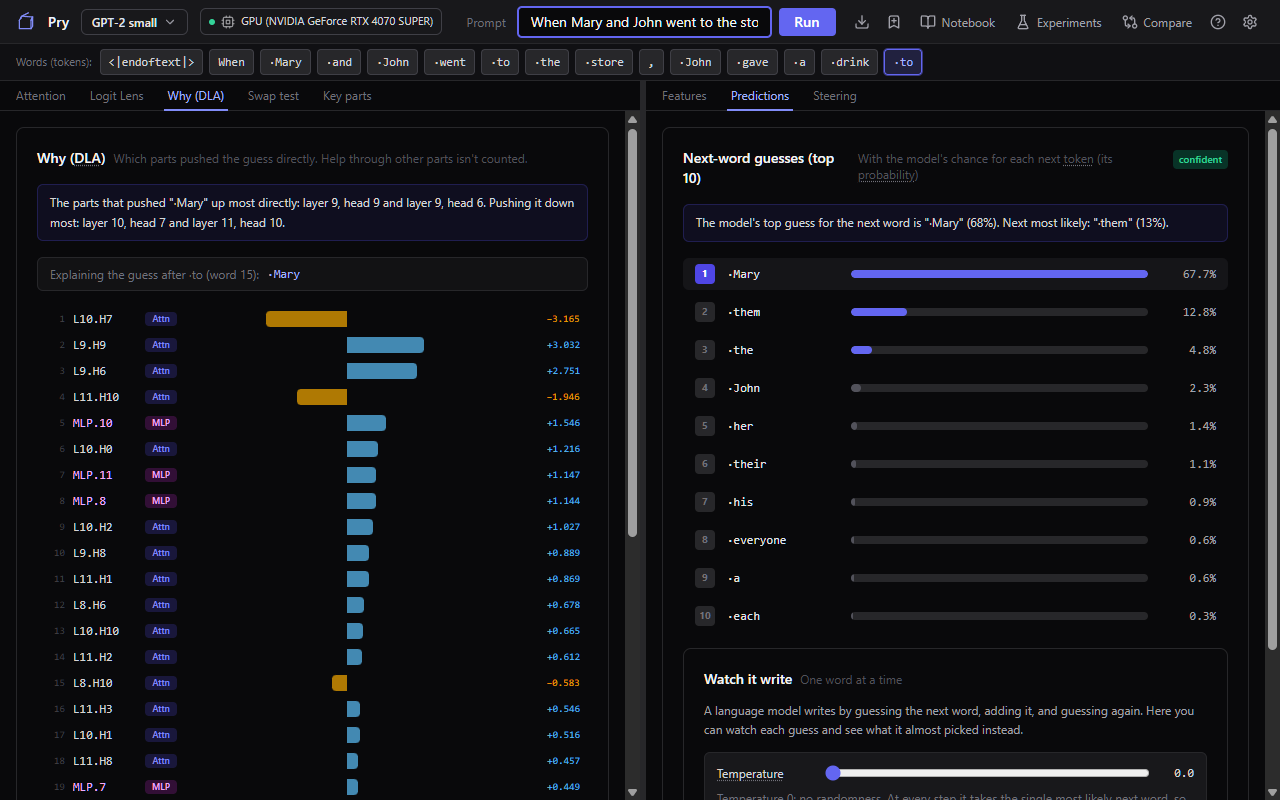
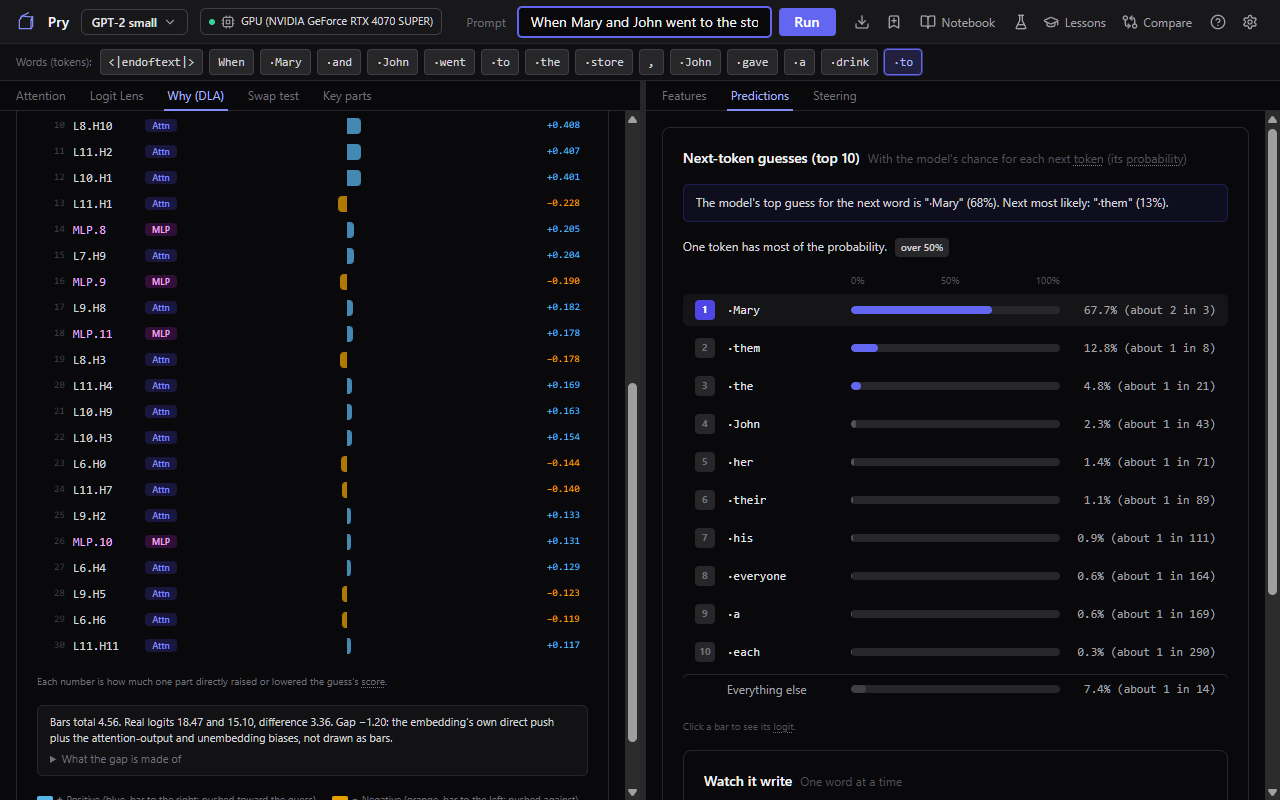
docs(readme): 0.4.0 refresh: Lessons, lesson format preview, measurement changes, notebook v2; new screenshots
Lessons (docked sidebar, 19 lessons in four stages + the 12-step quick tour,
Back/Next re-drive the app, Lessons closed = the 0.3.8 layout), the public
lesson format (format 1, preview label, AUTHORING.md link, install grants),
the measurement changes (absolute Predictions bars + Everything else, DLA
total/real/gap with a contrast token, Swap test three logits + share,
steering control + coherence numbers, embedding reader), notebook v2 with
the notebook.v1.json backup, and privacy for lessons (app data folder,
lesson-grants.json, network/external only when a user lesson declares it).

Screenshots re-shot from the debug build at 1280x800 (scripts/dev/lesson-walk.mjs
--readme): attention, logit-lens, why-dla, key-parts, features, compare;
new lessons, lesson-predict, lesson-check, quick-tour, swap-test; tour.png and
experiment.png removed (the 38-step tour and the guides are gone).
Voice: brad-voice lint, guide register, 0 hard / 0 review.

diff --git a/README.md b/README.md
@@ -2,56 +2,89 @@
 
 Pry lets you look inside a small language model while it reads your words and guesses the next one. You don't need to write code or know machine learning.
 
-It runs the model on your own computer and gives you tools for seeing what's going on inside. Every chart opens with a sentence or two saying what it shows, and a guided tour walks you through the whole app. If you've wondered how these models work but don't want to set up a Python notebook to find out, it's for you.
+It runs the model on your own computer and gives you tools for seeing what's going on inside. Every chart opens with a sentence or two saying what it shows, and every number comes with the measurements it's worked out from. Nineteen short lessons teach you how to read all of it, one section at a time, inside the app. If you've wondered how these models work but don't want to set up a Python notebook to find out, it's for you.
 
 Pry's an alpha. It works, but you'll hit rough edges.
 
 <img src="docs/screenshots/attention.png" width="800" alt="The Attention panel with lines from each word to the words it looks at, next to the Predictions list">
 
-*Attention and Predictions for "The cat sat on the". On the left, lines run from " the" to the words one head looks at. On the right are the model's top guesses, with " floor" first at 9%.*
+*Attention and Predictions for "The cat sat on the". On the left, lines run from " the" to the words one head looks at. On the right are the model's top guesses, with " floor" first at 8.7%. Each bar is as wide as its real probability, so that bar fills 8.7% of its track, and "Everything else" (58.7% here) is whatever the top ten leave over.*
+
+## Lessons
+
+Open **Lessons** from the header and a sidebar docks beside the app, not on top of it. A lesson runs Pry for you one section at a time: it types the prompt, opens the panel and runs the analysis, then tells you what you're looking at. It'll ask for your guess before it shows you a result, and every result comes with what it can't tell you.
+
+There are 19 lessons in four stages:
+
+1. What a model is and isn't: tokens, embeddings, the residual stream, logits and probabilities.
+2. Looking inside: attention heads, the logit lens, direct logit attribution (DLA) and SAE features.
+3. Testing what's a cause: knockouts, activation patching (Pry's Swap test), steering, and two case studies.
+4. Why GPT-2 doesn't act like ChatGPT.
+
+Back and Next put the app back the way that section had it, prompt and panels included, so you can step back to an earlier result and it's there again. Press **Lessons** again to close it and you've got the plain analysis app, laid out the same as 0.3.8. Settings picks which side the sidebar docks on. At 1024 pixels wide the app gets tabs so both fit.
+
+New to Pry? The 12-step quick tour points at each part of the app in about five minutes. It's under the **?** button, and it replaces the old 38-step tour and the experiment guides. The experiments live on as lessons.
+
+<img src="docs/screenshots/lessons.png" width="800" alt="The Lessons sidebar docked on the right, partway through a lesson, with the app's panels on the left">
+
+*Section 2 of "Is there a database in there?" The lesson ran "Michael Jordan played the sport of" and opened Predictions, and its text reads the same numbers the panel shows: " basketball" at 0.422, and 37% left for everything outside the top ten.*
+
+<img src="docs/screenshots/lesson-predict.png" width="800" alt="A lesson asking for a guess before it shows the result">
+
+*The first section of the same lesson asks where GPT-2's next word comes from before it runs anything. You can pick an answer, write your own, or skip it.*
+
+<img src="docs/screenshots/lesson-check.png" width="800" alt="A lesson's check result, with the numbers it read from the app">
+
+*"Can we catch a head doing one job?" runs Pry's copying-heads test, names the top three scorers it found (L5H5, L7H10, L6H9) and checks them against the app: "The app shows what the lesson expected."*
+
+<img src="docs/screenshots/quick-tour.png" width="800" alt="A quick tour step with its card pointing at part of the app">
+
+*Step 4 of the quick tour. The card sits beside Predictions, the part it's talking about, on a real run of the Mary and John sentence.*
+
+### Write your own
+
+Lessons are Markdown files in a public format with its own version number, `format: 1`. For 0.4.x, writing your own is a **preview**... but format 1's frozen, so a lesson you write now keeps opening, and when format 2 ships Pry'll convert it for you. [`docs/lessons/AUTHORING.md`](docs/lessons/AUTHORING.md) walks you from the template to an installed lesson, and a checker (`lessons-lint.mjs`, shipped with Pry) reads your file before Pry loads it. Turn on author mode in Settings > Lessons and each number in a lesson shows its expected value beside the live one.
+
+When you install someone's lesson with **Add a lesson...**, Pry lists anything it does beyond looking at the app (downloading a model, looking something up online, opening a link) and asks you once. You can take that back in Settings > Lessons.
 
 ## What you can do
 
-- **See what it guesses.** Predictions lists the model's top guesses for the next word and how likely it thinks each one is. Watch it write replays the model writing one word at a time, with a temperature slider.
-- **See where it looks.** Attention draws lines from each word to the words it pays attention to. There's an expert view with the full layer × head grid, and a copying-heads view that finds the heads that copy patterns they've already seen.
-- **Watch it make up its mind.** The Logit Lens shows what the model would guess at each layer, so you can watch the answer form on the way up.
-- **Ask why it guessed that.** Why (DLA) splits the guess into how much each part of the model pushed toward it or away from it. Key parts picks out the parts that matter most and draws the links between them.
-- **See the concepts it used.** Features shows the concepts that lit up for each word, with labels from Neuronpedia. Find a concept searches those labels for something like "the ocean".
-- **Poke it.** Steering turns a concept up or down and reruns. Knockouts switch off a head or a feature. Swap test copies pieces from one prompt into another to find which part carries the answer.
+- **See what it guesses.** Predictions lists the model's top guesses for the next token with each one's probability, and the bars are drawn to scale. Click a bar to see its logit, the raw score the probability comes from. Watch it write replays the model writing one token at a time, with a temperature slider.
+- **See where it looks.** Attention draws lines from each token to the tokens one attention head looks at. There's an expert view with the full layer × head grid, and a copying-heads view that finds the heads that copy patterns they've already seen.
+- **Watch the guess form.** The Logit Lens shows what the model would guess at each layer, so you can watch the answer form on the way up.
+- **Ask why it guessed that.** Why (DLA) splits the guess into how much each head and MLP pushed toward it or away from it. Pick the answer token, and a second token to compare it against if you want. A line under the bars gives the bars' total, the real logit and the gap between them, so you can see how much the bars account for. Key parts picks out the parts that matter most and draws the links between them.
+- **See the concepts it used.** Features shows the concepts that lit up for each token, from a sparse autoencoder (SAE), with labels from Neuronpedia. Find a concept searches those labels for something like "the ocean".
+- **Poke it.** Swap test (activation patching) copies pieces from one prompt's run into another's to find which part carries the answer. Above the grid you get the target token's logit in all three runs (Original, Changed, and after the swap), and each square's share is worked out from them. Knockouts switch off a head or a feature. Steering turns a concept up or down and reruns, and shows how natural each text reads to the unsteered model (both numbers), next to a control run that steers a different feature of about the same size.
 - **Compare two prompts.** Compare runs "The doctor said that" and "The nurse said that" side by side and shows what changed.
-- **Try an experiment.** Eight short guided experiments, from "Who gets the drink?" to "Turn up a concept", set everything up, say what to look for, and link the research they come from.
-- **Keep a lab notebook.** Save a run with your own note, come back to it later, and export one entry or the whole notebook as a single web page that works offline.
-- **Learn as you go.** A nine-chapter tour points at each part of the app and runs the examples for you. First-time tips and glossary hovers explain words like *attention head* and *logit* in a line.
+- **Read an embedding.** A view in the lessons puts two token positions side by side and counts how many of their 768 numbers match, with the token embedding and the positional embedding as separate rows.
+- **Keep a lab notebook.** Save a run with your own note, come back to it later, and export one entry or the whole notebook as a single web page that works offline. Your lesson answers go in it too.
+- **Learn as you go.** First-time tips and glossary hovers explain words like *attention head* and *logit* in a line.
 
 ## Screenshots
 
 <img src="docs/screenshots/logit-lens.png" width="800" alt="The Logit Lens grid for Michael Jordan played the sport of">
 
-*The Logit Lens for "Michael Jordan played the sport of". Each square is one layer's best guess for one word. " basketball" takes over at layer 8 and ends at 42%.*
+*The Logit Lens for "Michael Jordan played the sport of". Each square shows one layer's best guess for one token, and " basketball" takes over at layer 8, peaks at 93% at layer 9 and ends at 42%.*
 
-<img src="docs/screenshots/why-dla.png" width="800" alt="Why (DLA) bars for the Mary and John sentence">
+<img src="docs/screenshots/why-dla.png" width="800" alt="Why (DLA) bars for the Mary and John sentence, with the total, real logit and gap line">
 
-*Why (DLA) on "When Mary and John went to the store, John gave a drink to". Each bar is one head or MLP pushing " Mary" up (blue) or down (orange).*
+*Why (DLA) on "When Mary and John went to the store, John gave a drink to", with " Mary" as the answer and " John" as the contrast. Each bar is one head or MLP pushing " Mary" over " John" (blue) or the other way (orange). The line at the bottom adds it up: the bars total 4.56, the real logits are 18.47 and 15.10 (a difference of 3.36), and the gap of -1.20 is the part no bar shows.*
+
+<img src="docs/screenshots/swap-test.png" width="800" alt="The Swap test grid with the three logits above it">
+
+*Swap test on the same sentence, with "Mary gave a drink to" as the changed prompt. For layer 8, head 10, the line above the grid gives " Mary"'s logit in all three runs (18.47 original, 14.97 changed, 16.25 after the swap) and works the share out from them: (16.25 - 14.97) ÷ (18.47 - 14.97) = 37%.*
 
 <img src="docs/screenshots/key-parts.png" width="800" alt="The Key parts graph for the Mary and John sentence">
 
-*Key parts on the same sentence. Each row's a layer, highest at the top, and the lines show how one part's output pushes the guess through a later head.*
+*Key parts on the same sentence. Each row's a layer, highest at the top, and the lines show how one part's output pushes the guess through a later head. The biggest part here, layer 10 head 7, pushes against " Mary" (-3.16).*
 
 <img src="docs/screenshots/features.png" width="800" alt="The Features panel for The doctor told the nurse she would">
 
-*Features on " would" in "The doctor told the nurse she would". You see the concepts that lit up, Neuronpedia's label for each, and text where it fires hardest.*
+*Features on " would" in "The doctor told the nurse she would". You see the SAE features that lit up, Neuronpedia's label for each, and text where each one fires hardest. The strongest is #17000, "statements indicating future intentions".*
 
 <img src="docs/screenshots/compare.png" width="800" alt="Compare mode with two prompts side by side">
 
 *Compare "The doctor said that" with "The nurse said that". " she" gains 14 points, " he" loses 12, and the features that show up in only one prompt are listed on the right.*
-
-<img src="docs/screenshots/tour.png" width="800" alt="A guided tour step with its card and arrow">
-
-*Chapter 2 of the tour. The card sits beside the attention grid it's talking about, with an arrow and a "Look at" line.*
-
-<img src="docs/screenshots/experiment.png" width="800" alt="The Who gets the drink? experiment guide">
-
-*The "Who gets the drink?" guide. The goal and both prompts stay at the top, then why it matters, what to look for, and what researchers found.*
 
 <img src="docs/screenshots/loading.png" width="800" alt="The loading screen while GPT-2 small loads">
 
@@ -61,10 +94,12 @@ Pry's an alpha. It works, but you'll hit rough edges.
 
 These tools show real numbers, but each one answers a narrow question. Pry says so in the app too.
 
-- Why (DLA) shows **direct** effects only: what each part adds straight to the final guess. Effects that pass through later layers aren't counted.
+- Why (DLA) shows **direct** effects only: what each part adds straight to the final guess. Effects that pass through later layers aren't counted. The gap line shows what the bars leave out: the embedding's own direct push plus two biases.
 - The lines in Key parts show one kind of link, the **direct value path**. Other ways parts affect each other, like changing where a head looks, aren't drawn.
 - Compare shows what changes **along with** the prompt. It doesn't prove what causes what. Use Swap test or a knockout for that.
-- Feature labels are written automatically by Neuronpedia. They're a good hint, not a fact.
+- A Swap test share only means something when the Original and Changed logits are far apart. When they're close, Pry says so.
+- Steering's "how natural it reads" numbers can't tell good text from a loop: repetitive text scores as very natural. That's why you get the numbers and a control run, not a verdict.
+- Neuronpedia writes the feature labels automatically, so treat them as a good hint, not a fact.
 
 ## Models
 
@@ -74,10 +109,10 @@ These tools show real numbers, but each one answers a narrow question. Pry says 
 | Pythia-70M | 350 MB | GPU or CPU | Yes |
 | Gemma 2 2B | 10.8 GB | GPU only | Yes (Gemma Scope) |
 
-- Start with GPT-2 small. The tour and the experiments use it.
+- Start with GPT-2 small. The lessons and the quick tour use it.
 - On a computer without a graphics card, GPT-2 small and Pythia-70M run on the CPU. They're slower, but they work.
 - Gemma 2 2B needs an NVIDIA GPU with about 8 GB of memory free (it fits a 12 GB card). Google also asks for two things first, and Pry walks you through both: a free Hugging Face account where you've accepted the Gemma license, and a Hugging Face token saved in Pry.
-- **Add your own.** Type a Hugging Face model name and Pry checks it's a kind TransformerLens supports and tells you whether it'll fit. Most panels work on these. Features and Steering don't, since they need a trained feature dictionary that Pry only has for the built-in models.
+- **Add your own.** Type a Hugging Face model name and Pry checks it's a kind TransformerLens supports and tells you whether it'll fit. Most panels work on these. Features and Steering don't, since they need a trained sparse autoencoder (SAE) that Pry only has for the built-in models.
 
 ## Requirements
 
@@ -98,13 +133,15 @@ The first time it opens, Pry sets up its engine (Python, PyTorch and the interpr
 
 Then it downloads the model you choose. You won't need a terminal.
 
-Loading a model can take a minute. The loading screen shows which step it's on and about how long is left. The first load after a restart is the slowest.
+Loading a model can take a minute. The loading screen shows which step it's on and about how long is left, and the first load after a restart is the slowest.
 
 **Updates.** From 0.3.7 on, Pry checks for a new version when it starts and can install it in place with one click. Your models, notebook and settings are kept. Every update is signed, and Pry won't install one whose signature doesn't match. You can turn the check off in Settings.
 
+**Coming from 0.3.8?** 0.4.0 moves the notebook to version 2, which keeps your lesson answers and where each run came from (the model's revision and the SAE). Pry 0.3.8 can't open a version 2 notebook. Before its first save, 0.4.0 copies your old notebook, byte for byte, to `notebook.v1.json` in the same folder. To go back to 0.3.8, rename `notebook.v1.json` to `notebook.json`. Anything you saved in 0.4.0 won't be in it, so export that first.
+
 ## Privacy
 
-Your prompts, results and lab notebook stay on your computer. There's no usage tracking.
+Your prompts, results, lab notebook and lesson answers stay on your computer. There's no usage tracking.
 
 Pry does go online for these:
 
@@ -112,6 +149,10 @@ Pry does go online for these:
 - **Feature labels.** Pry asks Neuronpedia for the label of each feature it shows, by feature number. Your prompt isn't sent.
 - **Find a concept.** The words you search for go to Neuronpedia. The panel tells you before you search.
 - **Update check.** When it starts, Pry asks github.com whether there's a newer version. You can turn that off in Settings.
+
+The lessons that ship with Pry don't go online for anything beyond that list. A lesson you add can only look something up online if it says so in its `network` permission and you OK'd it, and it can only open links to the sites its `external` permission names.
+
+Lessons you add live in Pry's app data folder, `%APPDATA%\com.beargle.pry\lessons`. What you OK'd for each one is in `lesson-grants.json` in the same folder, next to `notebook.json`.
 
 The notebook's web-page export doesn't load anything from the internet.
 
@@ -136,6 +177,8 @@ cargo tauri dev
 
 **Working on the engine.** The Python side lives in `sidecar/` and needs Python 3.11 or 3.12. [`sidecar/README.md`](sidecar/README.md) has setup and tests.
 
+**Working on lessons.** The bundled lessons are in `ui/src/lessons/`, one folder each. `node ui/build-cli/lessons-lint.mjs ui/src/lessons --release` checks all of them.
+
 **Signed releases.** `scripts/release.ps1` builds a signed installer and the update manifest. It needs the updater signing key, so it's only for official releases. See [`docs/releasing.md`](docs/releasing.md).
 
 The `pry-cli` binary in `src-tauri/src/cli.rs` runs the engine on its own for debugging. You won't need it for normal use.
@@ -145,12 +188,12 @@ The `pry-cli` binary in `src-tauri/src/cli.rs` runs the engine on its own for de
 - [Tauri 2](https://v2.tauri.app/), the desktop shell
 - [SvelteKit](https://svelte.dev/docs/kit) and Svelte 5, the interface
 - [TransformerLens](https://github.com/TransformerLensOrg/TransformerLens), for looking inside the model
-- [SAELens](https://github.com/jbloomAus/SAELens), for the feature dictionaries
+- [SAELens](https://github.com/jbloomAus/SAELens), for the sparse autoencoders (SAEs)
 - [PyTorch](https://pytorch.org/), for the math
 - [Neuronpedia](https://www.neuronpedia.org/), for feature labels and concept search
 - [Tailwind CSS](https://tailwindcss.com/), for styling
 
-Third-party licenses are listed in [THIRD_PARTY_NOTICES.md](THIRD_PARTY_NOTICES.md).
+You'll find the third-party licenses in [THIRD_PARTY_NOTICES.md](THIRD_PARTY_NOTICES.md).
 
 ## License
 
